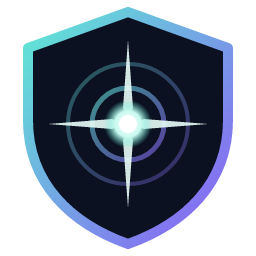
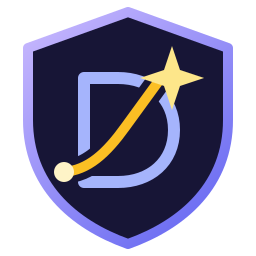
Explain Director pairing errors and prepare the 0.1.0.4 beta

Changed region(s): [[0.0625, 0.0312, 0.9062, 0.8438]]

diff --git a/tests/PsfGuard.Director.Tests/SettingsViewTests.cs b/tests/PsfGuard.Director.Tests/SettingsViewTests.cs
@@ -1,11 +1,14 @@
 using System.IO;
 using System.Windows;
+using System.Windows.Automation.Peers;
+using System.Windows.Automation.Provider;
 using System.Windows.Controls;
 using System.Windows.Input;
 using System.Windows.Media;
 using System.Windows.Media.Imaging;
 using System.Windows.Threading;
 using PsfGuard.Director.Plugin;
+using PsfGuard.Director.Runtime;
 using Xunit;
 
 namespace PsfGuard.Director.Tests;
@@ -57,6 +60,7 @@ public sealed class SettingsViewTests
         {
             var dictionary = new Options();
             var template = (DataTemplate)dictionary["PSF Guard Director_Options"];
+            CheckCoordinatorPairButton(template);
             foreach (var width in new[] { 240, 280, 360, 640 })
                 foreach (var state in new[] { "Stopped", "Ready", "Runtime verification or protocol failed. Reinstall the matching Director bundle." })
                 {
@@ -130,6 +134,61 @@ public sealed class SettingsViewTests
         Assert.Null(Application.Current);
     }
 
+    private static void CheckCoordinatorPairButton(DataTemplate template)
+    {
+        var profile = Guid.NewGuid();
+        var url = "";
+        var binding = new CoordinatorBinding(Guid.NewGuid(), Guid.NewGuid(), Guid.NewGuid(), profile);
+        var exchanges = 0;
+        var code = "psfdpt_" + new string('a', 64);
+        using var connection = new DirectorConnection(() => profile, () => true, () => url, value => url = value,
+            (_, _) => null, (_, _) => { }, exchange: (endpoint, submittedCode, _, _, _) =>
+            {
+                exchanges++;
+                Assert.Equal("https://psf-guard.example/", endpoint.AbsoluteUri);
+                Assert.Equal(code, submittedCode);
+                return Task.FromResult(new CoordinatorPairing(binding, Guid.NewGuid(), "test-credential"));
+            });
+        var content = (FrameworkElement)template.LoadContent();
+        content.DataContext = new ViewModel("Stopped") { Connection = connection };
+        content.Measure(new Size(640, double.PositiveInfinity));
+        content.Arrange(new Rect(content.DesiredSize));
+        Dispatcher.CurrentDispatcher.Invoke(() => { }, DispatcherPriority.ContextIdle);
+        var inputs = Descendants(content).OfType<TextBox>().Where(input => ReferenceEquals(input.DataContext, connection)).ToArray();
+        Assert.Equal(2, inputs.Length);
+        var pair = Descendants(content).OfType<Button>().First(button => button.Content is TextBlock { Text: "Pair" });
+        Assert.Same(connection.PairCommand, pair.Command);
+        Assert.False(pair.IsEnabled);
+        var click = Assert.IsAssignableFrom<IInvokeProvider>(new ButtonAutomationPeer(pair).GetPattern(PatternInterface.Invoke));
+        var syncCode = "psfpt_" + new string('a', 64);
+        inputs[1].SetCurrentValue(TextBox.TextProperty, syncCode);
+        Dispatcher.CurrentDispatcher.Invoke(() => { }, DispatcherPriority.ContextIdle);
+        Assert.True(pair.IsEnabled);
+        click.Invoke();
+        Dispatcher.CurrentDispatcher.Invoke(() => { }, DispatcherPriority.ContextIdle);
+        Assert.Contains("PSF Guard Sync code", connection.PairingStatus);
+        Assert.Equal(syncCode, inputs[1].Text);
+        Assert.Equal(0, exchanges);
+
+        inputs[1].SetCurrentValue(TextBox.TextProperty, code);
+        Dispatcher.CurrentDispatcher.Invoke(() => { }, DispatcherPriority.ContextIdle);
+        click.Invoke();
+        Dispatcher.CurrentDispatcher.Invoke(() => { }, DispatcherPriority.ContextIdle);
+        Assert.Contains("valid PSF Guard server URL", connection.PairingStatus);
+        Assert.Equal(code, inputs[1].Text);
+        Assert.Equal(0, exchanges);
+
+        inputs[0].SetCurrentValue(TextBox.TextProperty, "https://psf-guard.example/");
+        Dispatcher.CurrentDispatcher.Invoke(() => { }, DispatcherPriority.ContextIdle);
+        Assert.True(pair.IsEnabled);
+        click.Invoke();
+        Dispatcher.CurrentDispatcher.Invoke(() => { }, DispatcherPriority.ContextIdle);
+        Assert.Equal(1, exchanges);
+        Assert.StartsWith("Paired to rig", connection.PairingStatus);
+        Assert.Empty(inputs[1].Text);
+        Assert.False(pair.IsEnabled);
+    }
+
     private static void TextElementForeground(DependencyObject host) =>
         System.Windows.Documents.TextElement.SetForeground(host, Brushes.White);
 
@@ -152,7 +211,7 @@ public sealed class SettingsViewTests
 
     public sealed class ViewModel(string state)
     {
-        public object Connection { get; } = new ConnectionViewModel();
+        public object Connection { get; init; } = new ConnectionViewModel();
         public object Collaboration { get; } = new CollaborationViewModel();
         public string ProfileName => "Director simulator - long profile name";
         public string RuntimeStatus => state;

diff --git a/src/PsfGuard.Director.Plugin/DirectorConnection.cs b/src/PsfGuard.Director.Plugin/DirectorConnection.cs
@@ -39,7 +39,7 @@ internal sealed class DirectorConnection : INotifyPropertyChanged, IDisposable
         this.store = store ?? DirectorCredentialStore.Store;
         this.forget = forget ?? DirectorCredentialStore.Forget;
         this.exchange = exchange ?? ExchangeAsync;
-        pair = new(PairAsync, () => IsEditable && Endpoint() is not null && CoordinatorPairingClient.ValidCode(code.Trim()), ReportError);
+        pair = new(PairAsync, () => IsEditable && !string.IsNullOrWhiteSpace(code), ReportError);
         reset = new(ResetAsync, () => IsEditable && Endpoint() is not null, ReportError);
     }
 
@@ -115,10 +115,26 @@ internal sealed class DirectorConnection : INotifyPropertyChanged, IDisposable
 
     private async Task PairAsync()
     {
-        var endpoint = Endpoint() ?? throw new InvalidOperationException();
+        var selectedCode = code.Trim();
+        if (!CoordinatorPairingClient.ValidCode(selectedCode))
+        {
+            status = selectedCode.StartsWith("psfpt_", StringComparison.Ordinal)
+                ? "This is a PSF Guard Sync code. Enter a Director pairing code beginning with psfdpt_."
+                : "Enter the full Director pairing code beginning with psfdpt_.";
+            Changed();
+            return;
+        }
+        var endpoint = Endpoint();
+        if (endpoint is null)
+        {
+            status = ParseEndpoint(true) is { Scheme: "http" }
+                ? "Select Allow unencrypted HTTP if you trust this server, or enter its HTTPS address."
+                : "Enter a valid PSF Guard server URL.";
+            Changed();
+            return;
+        }
         var selectedProfile = profile();
         var selectedGeneration = generation;
-        var selectedCode = code.Trim();
         var token = lifetime.Token;
         code = "";
         busy = true;

diff --git a/tests/PsfGuard.Director.Tests/DirectorPairingTests.cs b/tests/PsfGuard.Director.Tests/DirectorPairingTests.cs
@@ -143,10 +143,20 @@ public sealed class DirectorPairingTests
     {
         var idle = true;
         var url = "192.168.1.50:8080";
+        var exchanges = 0;
         using var model = new DirectorConnection(() => Binding.ProfileId, () => idle, () => url, value => url = value,
-            (_, _) => null, (_, _) => { }, (_, _) => { });
+            (_, _) => null, (_, _) => { }, (_, _) => { },
+            (_, _, _, _, _) =>
+            {
+                exchanges++;
+                return Task.FromResult(new CoordinatorPairing(Binding, Guid.NewGuid(), Secret));
+            });
         model.PairingCode = Code;
-        Assert.False(model.PairCommand.CanExecute(null));
+        Assert.True(model.PairCommand.CanExecute(null));
+        model.PairCommand.Execute(null);
+        Assert.Contains("Allow unencrypted HTTP", model.PairingStatus);
+        Assert.Equal(Code, model.PairingCode);
+        Assert.Equal(0, exchanges);
         model.AllowInsecureHttp = true;
         Assert.True(model.PairCommand.CanExecute(null));
         idle = false;

diff --git a/README.md b/README.md
@@ -49,9 +49,11 @@ with Director support. The planning runtime is bundled with the plugin.
    and install **PSF Guard Director**. See [releases](https://github.com/theatrus/psf-guard-director-nina-plugin/releases)
    for package versions. This README describes `main`; packaged features follow
    the release notes.
-2. In Director's plugin settings, enter your PSF Guard server address and pair
-   using a Director pairing code. Credentials stay in Windows Credential Manager;
-   no API key is displayed.
+2. In Director's plugin settings, open **Coordinator**. Enter your PSF Guard
+   server address and the Director pairing code that begins with `psfdpt_`,
+   then click **Pair**. Issue the code for your rig using the
+   [PSF Guard Director pairing API](https://github.com/theatrus/psf-guard/blob/main/docs/DIRECTOR.md#pair-a-director-client).
+   Credentials stay in Windows Credential Manager.
 3. Connect your equipment, add **Director Session** to the Advanced Sequencer,
    and configure safety, enclosure clearance, horizon and operation ownership.
    Keep acquisition disabled while setting up.

diff --git a/assets/README.md b/assets/README.md
@@ -1,8 +1,9 @@
 # Director icon
 
-Director uses the PSF Guard shield and star mark. The SVG comes from
-`psf-guard/static/public/psf-guard.svg`; the 256-pixel PNG comes from that
-repository's generated `icons/128x128@2x.png`.
+Director's shield shows a violet D and a gold route to a star. The SVG is the
+source for the 256-pixel PNG.
+
+Render the PNG with `cairosvg psf-guard-director.svg -o psf-guard-director.png --output-width 256 --output-height 256`.
 
 The assembly metadata and registry manifest use `psf-guard-director.png` as
 their featured image so NINA shows it in the plugin manager.

diff --git a/docs/releases/0.1.0.4.md b/docs/releases/0.1.0.4.md
@@ -1,0 +1,8 @@
+# Director 0.1.0.4 — beta
+
+- In **Coordinator**, enter a pairing code and click **Pair**. Director now
+  explains invalid codes and server addresses and keeps the code in the field
+  while you correct the input.
+- Find Director in the N.I.N.A. plugin manager by its violet shield and gold
+  route to a star.
+- Uses the shared planning runtime from PSF Guard 0.13.0.
